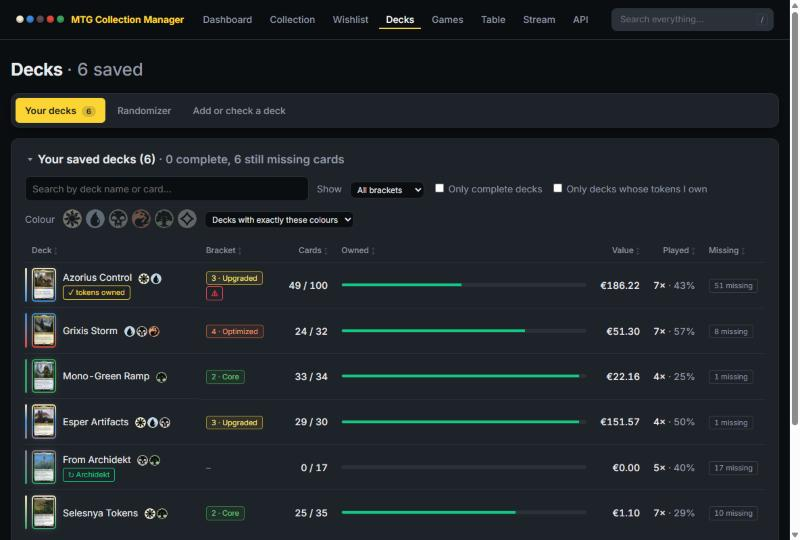
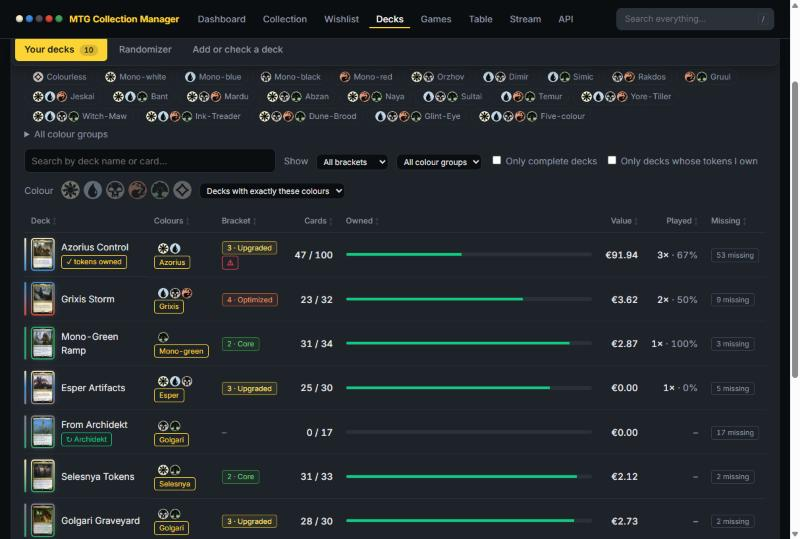
README: new screenshots for the colour groups, the Colours tab and the playtest page; overlay: the playtest table shrinks to fit
- New pictures: the deck list with colour groups, a colour group page (Dimir), the dashboard Colours tab, the playtest page and the overlay with the playtest table; the deck list and the week on the dashboard in their new form
- Overlay: with three rows of cards the table did not shrink to the picture, because of a maximum height that hid how tall it was

diff --git a/app/stream/static/overlay.html b/app/stream/static/overlay.html
@@ -591,7 +591,7 @@
   .result-screen .line .rec { margin-left: .7em; color: #9be8aa; }
   /* ---- the playtest table: your battlefield and piles for the others on your virtual camera; never your hand */
   #play {
-    position: fixed; left: 1.4vh; right: 19vh; bottom: 9vh; z-index: 4; pointer-events: none; max-height: 74vh;
+    position: fixed; left: 1.4vh; right: 19vh; bottom: 9vh; z-index: 4; pointer-events: none;
     display: flex; flex-direction: column; gap: 1.1vh;
   }
   body.row-bottom #play { bottom: auto; top: 2vh; }

diff --git a/README.md b/README.md
@@ -12,6 +12,8 @@ price.
 
 ![Dashboard: a banner with the deck you played last, your week and your newest achievement; collection value, wishlist cost and what you paid, and tabs for the value over time, the top cards and movers, alerts and backups](docs/dashboard.jpg)
 
+![The Colours tab: how your collection is spread over the five colours, with the weakest and the strongest one](docs/dashboard-colours.jpg)
+
 | Top cards and weekly movers | Wishlist with targets, sorted by current price |
 | --- | --- |
 | ![The "Top cards & movers" tab: the 10 most valuable cards, with risers and fallers below](docs/dashboard-cards.jpg) | ![The wishlist: the cards you watch, with tabs to add a card and for the alert history](docs/wishlist.jpg) |
@@ -43,6 +45,10 @@ Press **▶ Play** on a deck and the stream screen opens with every token that d
 | ![The deck intro on stream: Kess art, "Now playing Grixis Storm", Bracket 4 and 4 W · 3 L](docs/stream-intro.jpg) | ![Rhystic Study big in the middle of the stream; commander tax +4 and storm 6 next to the turn tracker](docs/stream-spotlight.jpg) |
 
 ![Victory! in gold with confetti over the stream, with the deck and its new record](docs/stream-victory.jpg)
+
+| The playtest page: your hand is only here | What the stream shows: no hand, only the battlefield |
+| --- | --- |
+| ![The playtest page: creatures, other permanents and lands on the battlefield with four Islands in one stack, the hand below, and the library, graveyard, exile and command zone](docs/playtest.jpg) | ![The overlay with the playtest table: the battlefield and your life, and only how many cards you hold](docs/playtest-overlay.jpg) |
 
 | The Stream Deck page: 32 keys, row by row | A ready-made profile, or one key at a time |
 | --- | --- |
@@ -89,6 +95,10 @@ Press **▶ Play** on a deck and the stream screen opens with every token that d
 ![The saved decks filtered on bracket 3: two of the six decks are left](docs/decks-filter.jpg)
 
 ![The saved decks filtered on colour: the decks with green in them, each with its colours](docs/decks-colors.jpg)
+
+![Colour groups: every deck shows the name of its colours (Azorius, Grixis, Selesnya...), and the groups you have no deck in yet are listed above the decks; all 32 groups with the number of decks in each can be opened, and the list can be filtered and sorted on colour group](docs/decks-colour-groups.jpg)
+
+![A colour group you do not play yet (Dimir): the commanders you already own in exactly those colours, and the most played ones, each with how many of its 60 most played cards you own](docs/colour-group.jpg)
 
 ![The saved decks sorted on missing cards: the decks closest to done first](docs/decks-sorted.jpg)
 

diff --git a/docs/stream.md b/docs/stream.md
@@ -144,6 +144,10 @@ they are all tapped; the menu is the one of its front card.
 
 The game is kept in `stream-state-play.json` and survives a restart.
 
+![The playtest page](playtest.jpg)
+
+![The overlay with the playtest table](playtest-overlay.jpg)
+
 ## Placing cards anywhere (drag & drop)
 
 The control panel has a **Layout** section with a live, scaled-down copy of
